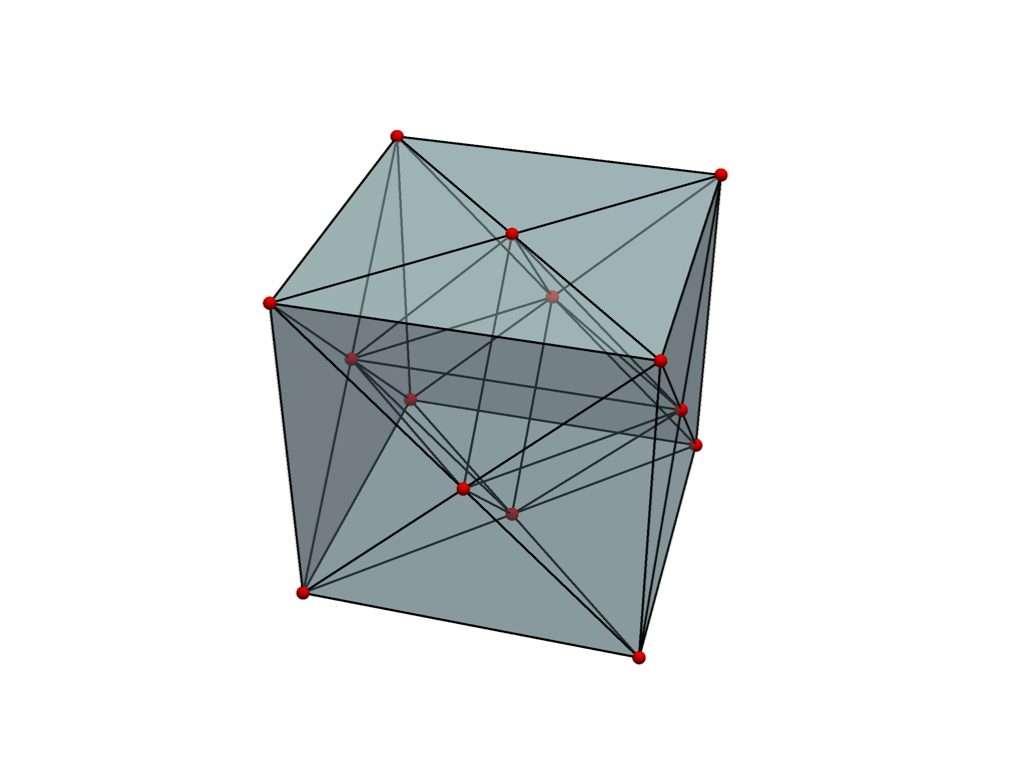
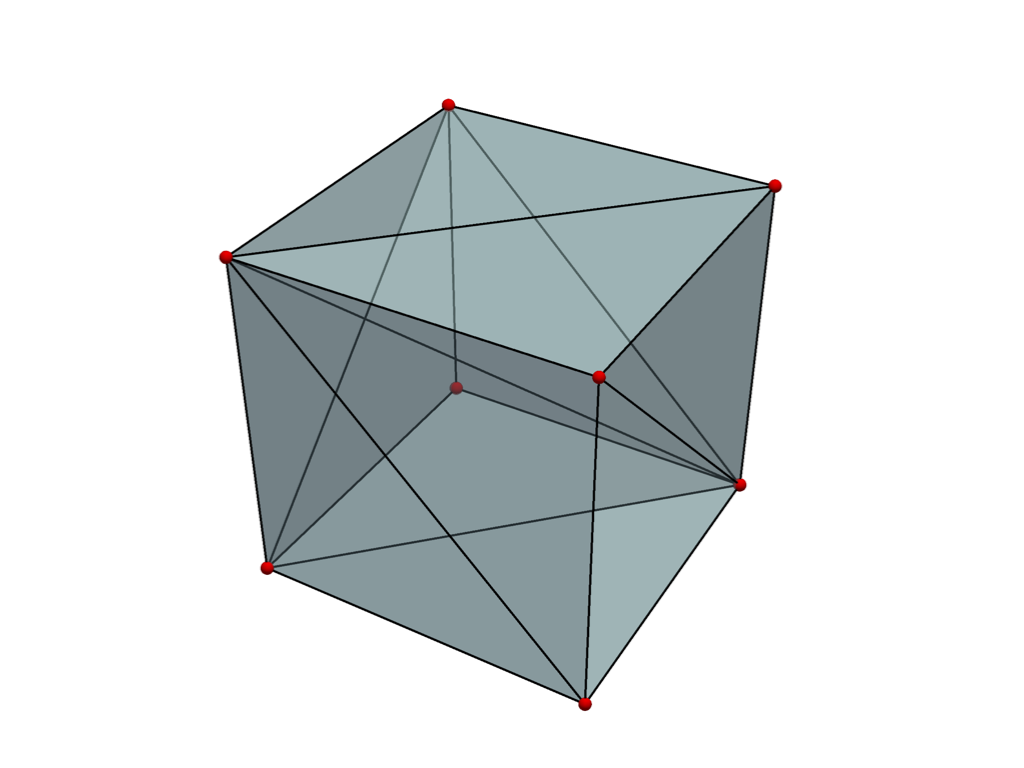
Use initial 2d mesh only in `delaunay_3d` (#60)

Changed region(s): [[0.2188, 0.125, 0.7812, 0.9375], [0.5938, 0.3125, 0.625, 0.3438], [0.4688, 0.75, 0.5, 0.7812]]

diff --git a/src/pvgmsh/__init__.py b/src/pvgmsh/__init__.py
@@ -10,6 +10,7 @@ from pyvista.core.utilities import fileio
 
 from pvgmsh._version import __version__  # noqa: F401
 
+INITIAL_MESH_ONLY_2D = 3
 FRONTAL_DELAUNAY_2D = 6
 DELAUNAY_3D = 1
 
@@ -135,14 +136,14 @@ def delaunay_3d(
 
     >>> mesh
     UnstructuredGrid (...)
-      N Cells:    24
-      N Points:   14
+      N Cells:    6
+      N Points:   8
       X Bounds:   -5.000e-01, 5.000e-01
       Y Bounds:   -5.000e-01, 5.000e-01
       Z Bounds:   -5.000e-01, 5.000e-01
       N Arrays:   0
 
-    >>> mesh = mesh.rotate_z(30)
+    >>> mesh = mesh.rotate_z(15)
     >>> plotter = pv.Plotter(off_screen=True)
     >>> _ = plotter.add_mesh(mesh, opacity=0.5)
     >>> edges = mesh.extract_all_edges()
@@ -155,6 +156,7 @@ def delaunay_3d(
     faces = edge_source.regular_faces
 
     gmsh.initialize()
+    gmsh.option.set_number("Mesh.Algorithm", INITIAL_MESH_ONLY_2D)
     gmsh.option.set_number("Mesh.Algorithm3D", DELAUNAY_3D)
 
     for i, point in enumerate(points):
